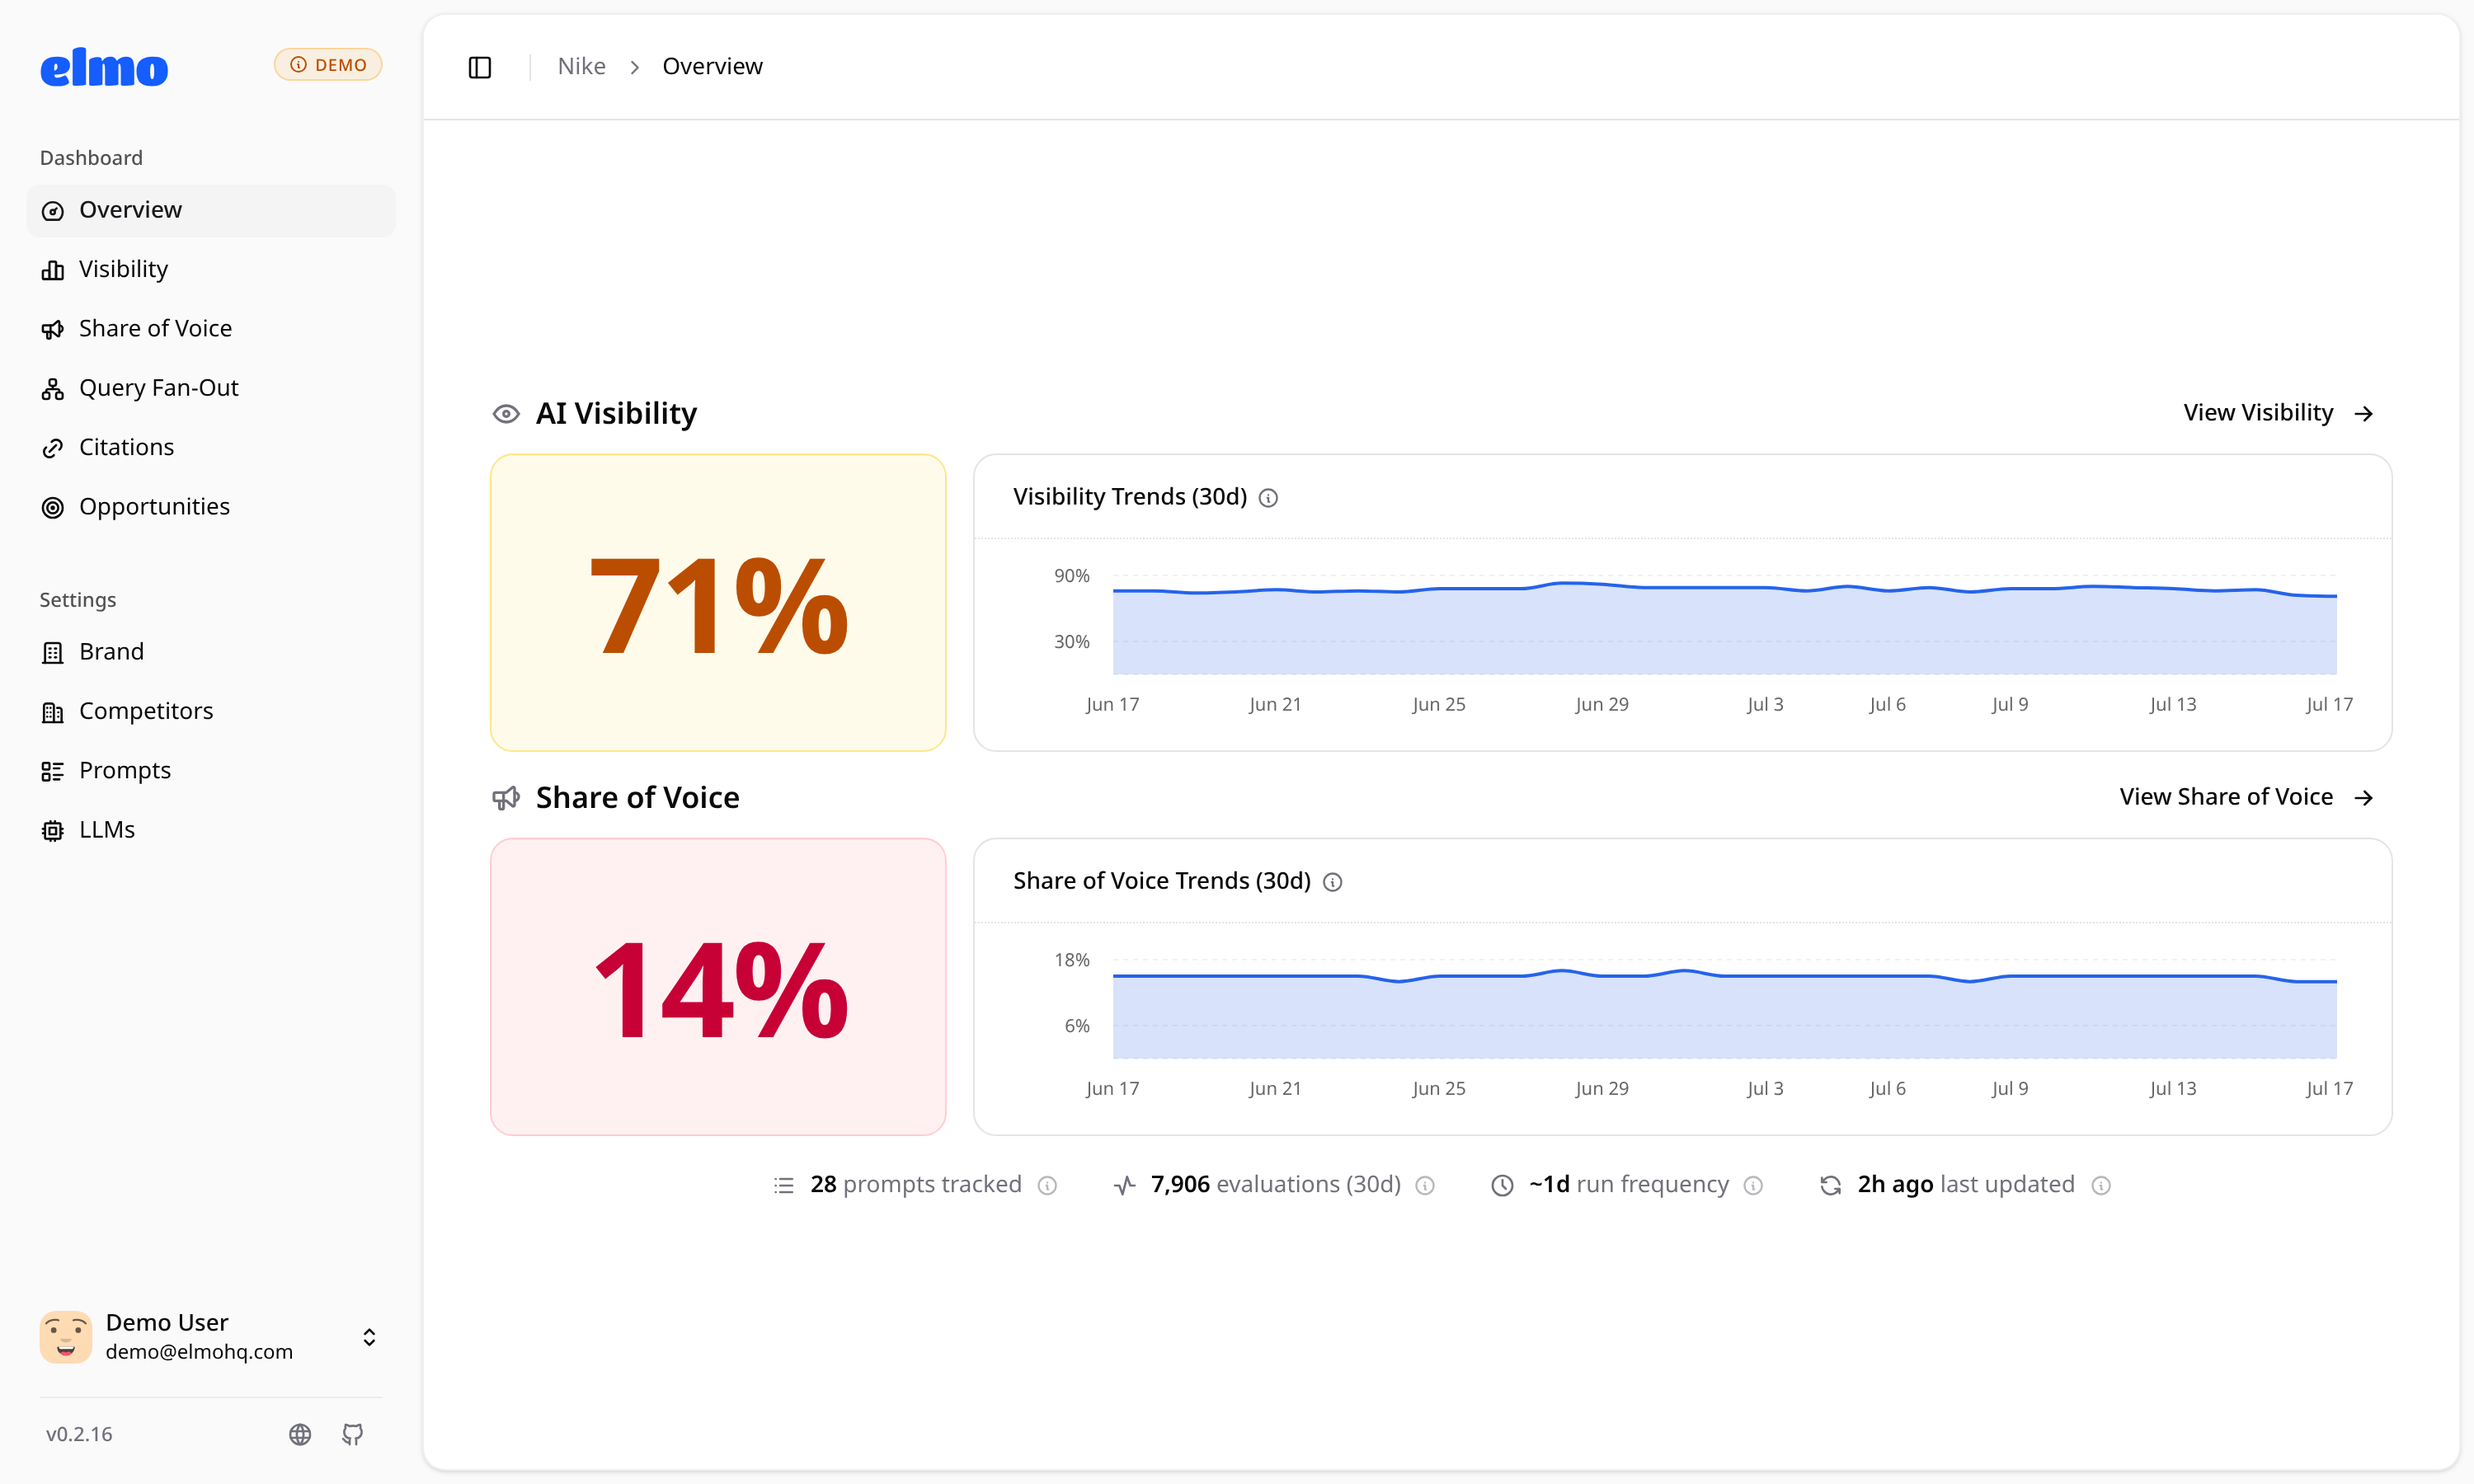
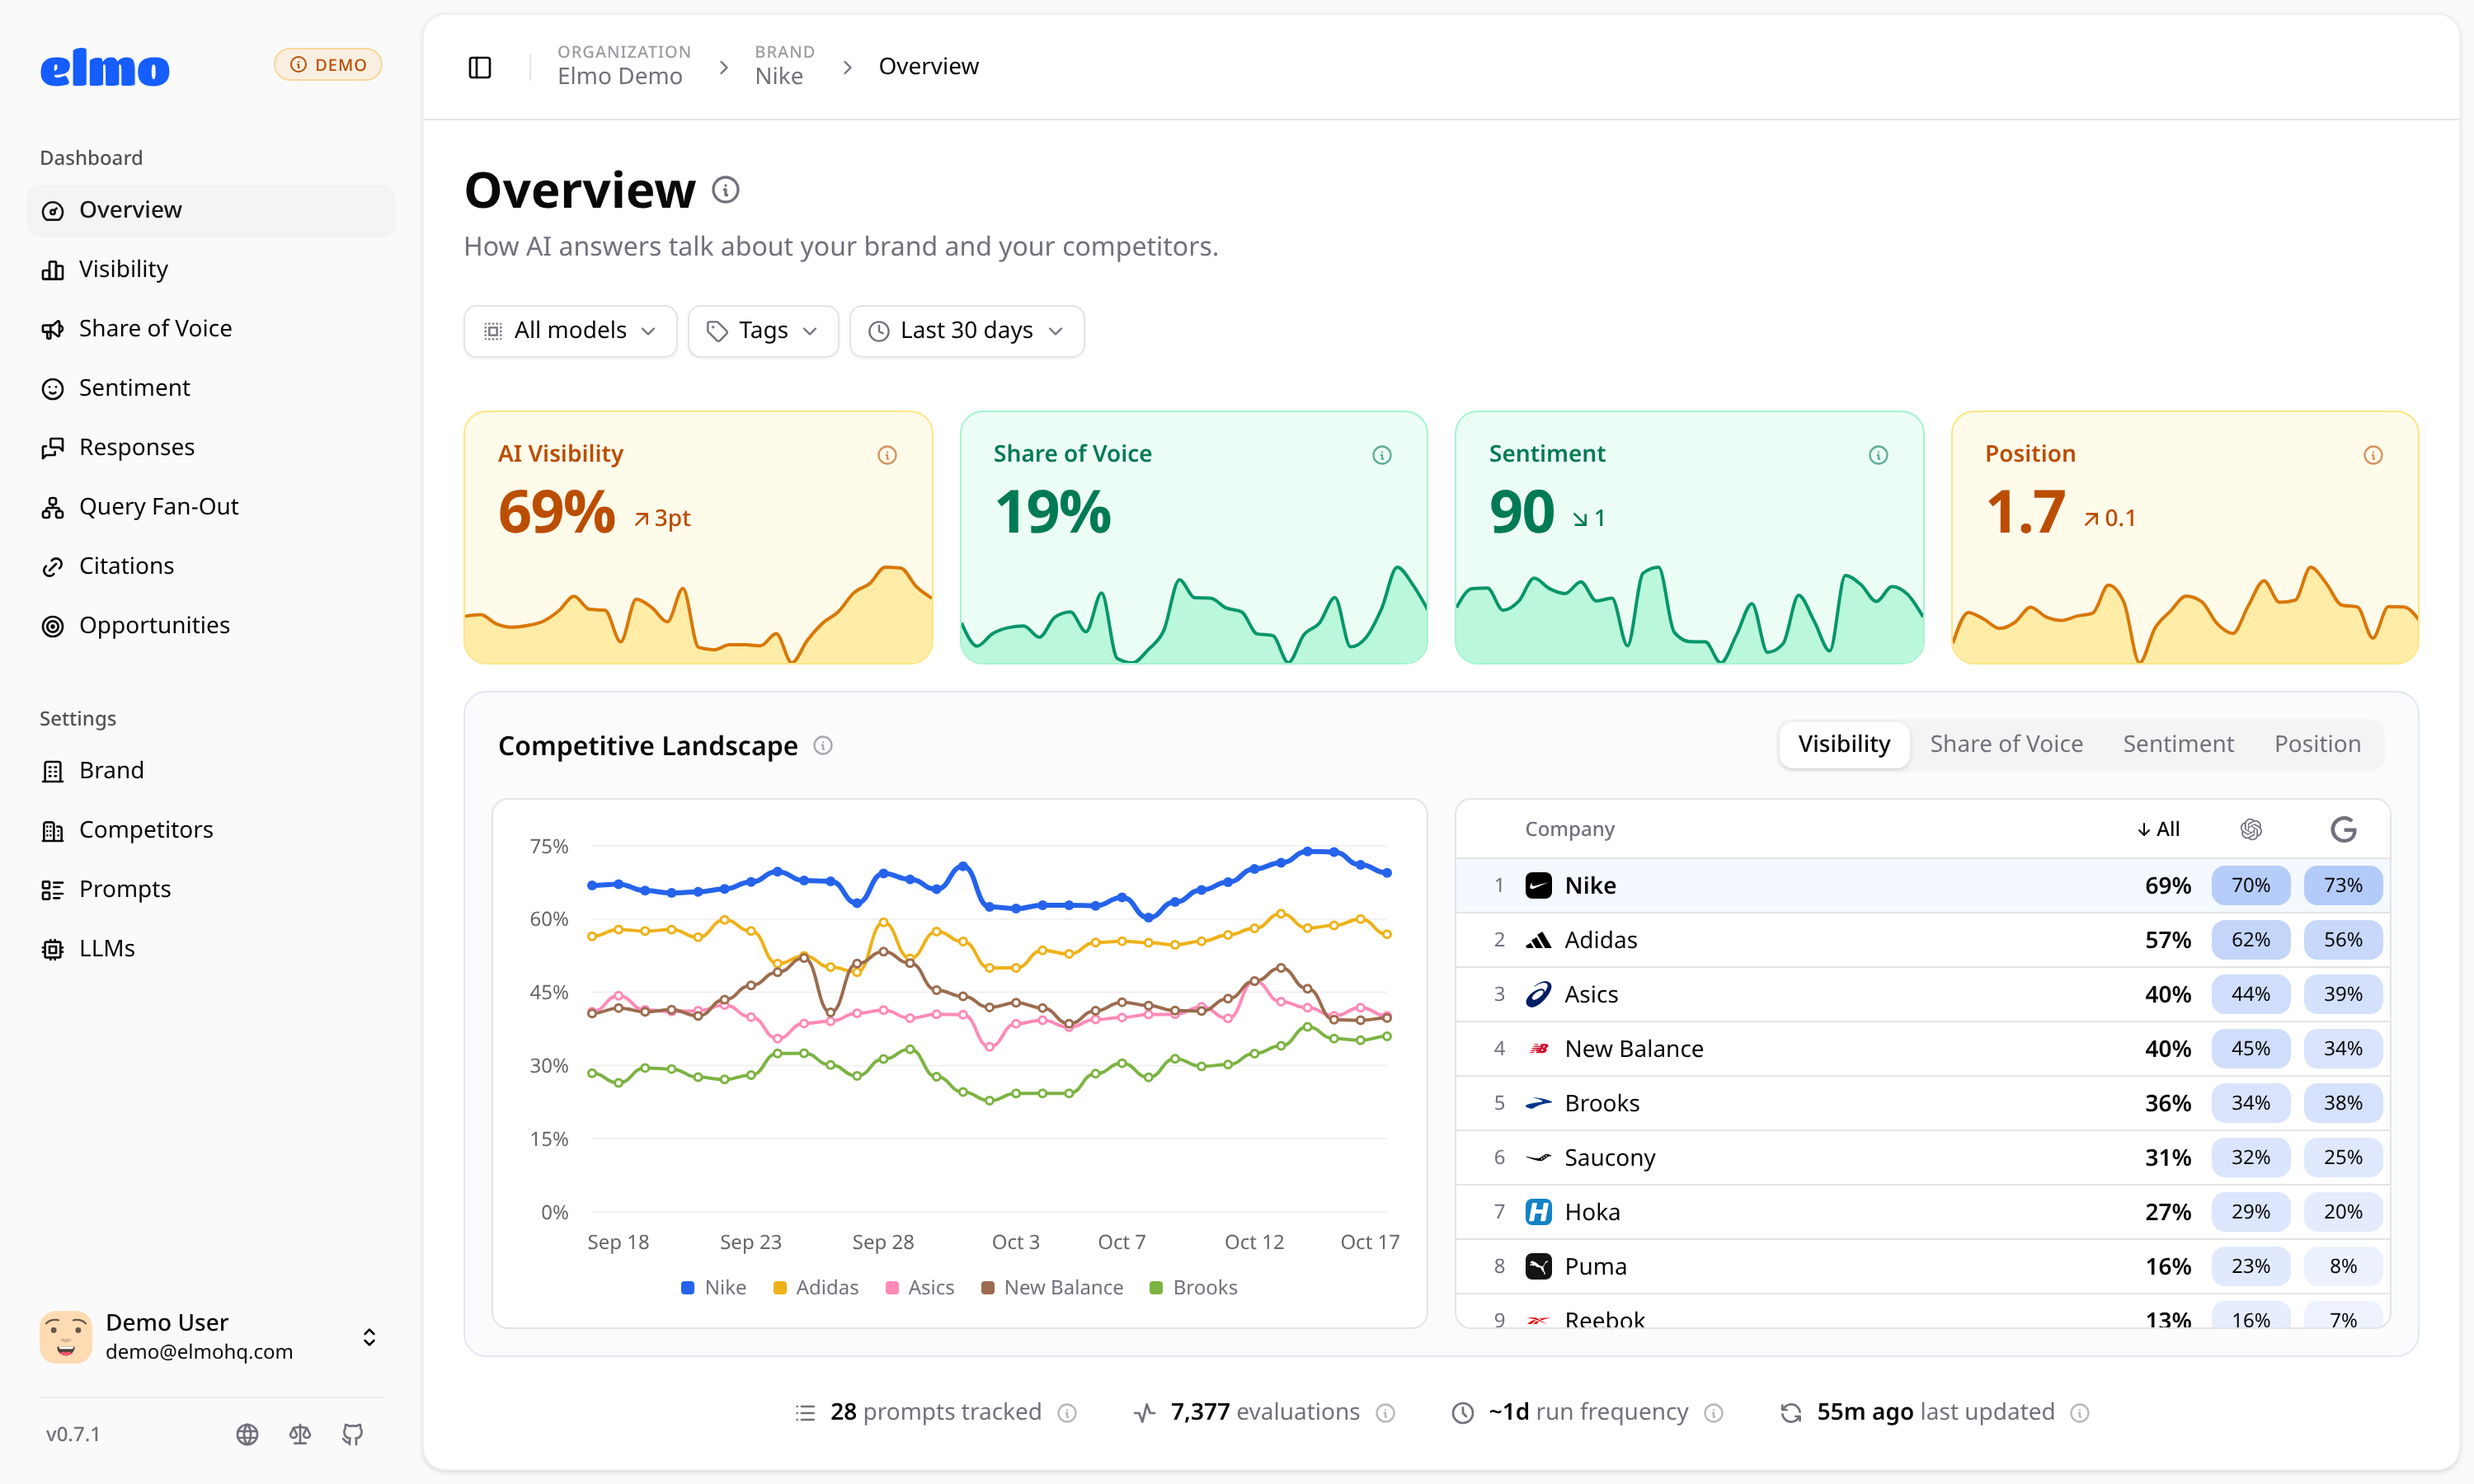
Refresh homepage screenshots and add Sentiment and Responses to the carousel

diff --git a/apps/www/src/components/home/product-demo.tsx b/apps/www/src/components/home/product-demo.tsx
@@ -14,8 +14,8 @@ const SLIDES = [
 	{
 		src: "/screenshots/overview.png",
 		label: "Overview",
-		caption: "Your AI visibility and share of voice at a glance",
-		y: 0.142,
+		caption: "Visibility, share of voice, sentiment, and position at a glance",
+		y: 0.141,
 	},
 	{
 		src: "/screenshots/visibility.png",
@@ -30,22 +30,34 @@ const SLIDES = [
 		y: 0.221,
 	},
 	{
+		src: "/screenshots/sentiment.png",
+		label: "Sentiment",
+		caption: "How AI describes you when it mentions you",
+		y: 0.261,
+	},
+	{
+		src: "/screenshots/responses.png",
+		label: "Responses",
+		caption: "Every AI answer, with each brand's rank and tone",
+		y: 0.301,
+	},
+	{
 		src: "/screenshots/query-fan-out.png",
 		label: "Query Fan-Out",
 		caption: "The searches AI runs behind each answer",
-		y: 0.261,
+		y: 0.341,
 	},
 	{
 		src: "/screenshots/citations.png",
 		label: "Citations",
 		caption: "The sources AI trusts in your category",
-		y: 0.301,
+		y: 0.381,
 	},
 	{
 		src: "/screenshots/opportunities.png",
 		label: "Opportunities",
 		caption: "What to do next, ranked by impact",
-		y: 0.341,
+		y: 0.421,
 	},
 ] as const;
 

diff --git a/apps/www/src/components/feature-graphics.tsx b/apps/www/src/components/feature-graphics.tsx
@@ -94,7 +94,7 @@ export function OverviewPageGraphic({ wide = false }: { wide?: boolean } = {}) {
 	return (
 		<Screenshot
 			src="/screenshots/overview.png"
-			alt="Elmo dashboard overview showing AI visibility and share of voice scores with 30-day trend charts"
+			alt="Elmo dashboard overview with visibility, share of voice, sentiment, and position cards above a competitive landscape chart"
 			aspect={wide ? "aspect-[12/5]" : "aspect-[5/3]"}
 		/>
 	);

diff --git a/apps/www/src/components/features.tsx b/apps/www/src/components/features.tsx
@@ -23,7 +23,7 @@ const features: Feature[] = [
 		num: "01",
 		eyebrow: "DASHBOARD",
 		title: "Your AI visibility command center.",
-		description: "Current visibility, share of voice, and 30-day trends on one dashboard.",
+		description: "Visibility, share of voice, sentiment, and position on one dashboard, with every competitor ranked beside you.",
 		graphic: <OverviewPageGraphic />,
 	},
 	{
